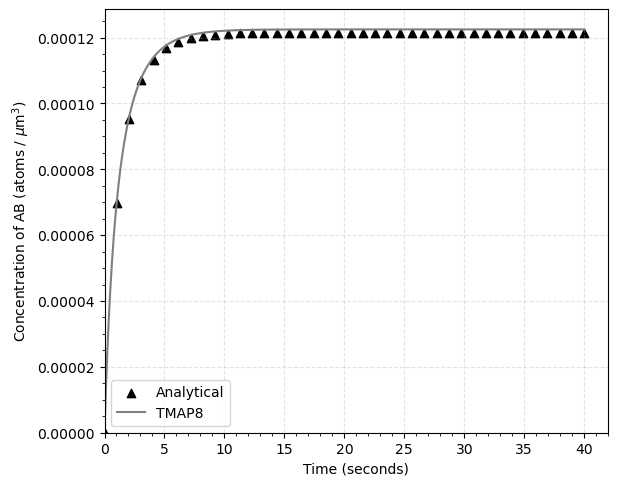
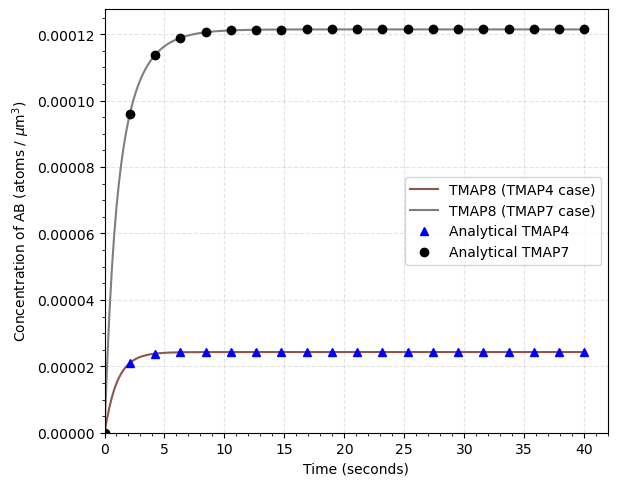
Removed trailing whitespaces, updated documentation and documentation images.

diff --git a/doc/content/verification_and_validation/ver-1g.md b/doc/content/verification_and_validation/ver-1g.md
@@ -2,7 +2,7 @@
 
 # A Simple Chemical Reaction
 
-This verification problem is taken from [!cite](longhurst1992verification). A simple time-dependent chemical reaction given by:
+This verification problem is taken from [!cite](longhurst1992verification,ambrosek2008verification). A simple time-dependent chemical reaction given by:
 
 \begin{equation}
 A + B \Rightarrow AB
@@ -32,11 +32,17 @@ where $C_{A_o}$ and $C_{B_o}$ are the initial concentrations of A and B, respect
 C_{AB} = C_{A_o} - \frac{1}{\frac{1}{C_{A_o}} + Kt}
 \end{equation}
 
-For this verification exercise, two cases were considered: (a) the initial concentrations of A and B are equal and (b) the initial concentrations of A and B are different.
+For this verification exercise, three cases were considered: (a) the initial concentrations of A and B are equal, (b) the initial concentrations of A and B are different and use the TMAP4 verification case values, and (c) the initial concentrations of A and B are different and use the TMAP7 verification case values. The equal concentration case is the same between TMAP4 and TMAP7, and is used for verification of TMAP8 here. While both TMAP4 and TMAP7 verification cases ( (b) and (c) respectively ) have the same analytical solution, the different initial conditions produce different $C_{AB}$ values over time, and we replicate both results here. 
 
-For case A, the initial concentrations of A and B were 2.43 x 10$^{-4}$ atoms / $\mu$m$^3$ (equivalent to 1 $\mu$Pa pressure assuming ideal gas law), and the reaction rate (K) is 4.14 x 10$^3$ $\mu$m$^3$ / atom$\cdot$s. For case B, the initial concentration of A was same as in case (a) while the initial concentration of B is 1.215 x 10$^{-4}$ atoms / $\mu$m$^3$.
+For case (a), the initial pressures of A and B were 1 $\mu$Pa, and the reaction rate (K) is 4.14 x 10$^3$ $\mu$m$^3$ / atom$\cdot$s. For case B the initial pressure of A was same as in case (a) while the initial pressure of B is 0.1 $\mu$Pa as per TMAP4. For case (c) the initial pressure of A was same as in case (a) while the initial pressure of B is 0.5 $\mu$Pa. In all cases, the initial pressures of A and B are first converted to their initial concentrations $C_{A_o}$ and $C_{B_o}$ using the ideal gas law before plugging into the TMAP8 simulations and analytical solutions. The initial concentration $C_{i_0}$ of component $i$ is
 
-A comparison of the concentration of AB as a function of time is plotted in [ver-1g_comparison_equal_conc] and [ver-1g_comparison_diff_conc] for the case A and case B, respectively. The TMAP8 calculations are found to be in good agreement with the analytical solution.
+\begin{equation}
+C_{i_0} = 10^{-18} \frac{P_{i_0} N_a}{R T} ,
+\end{equation}
+
+where $P_{i_0}$ is the initial pressure, $N_a$ is Avogardro's constant, $R$ is the gas constant, and $T$ = 298.15 K (25$\deg$ C) is the temperature. The factor $10^{-18}$ converts the concentration from atoms/m$^3$ to atoms/$\mu$m$^3$.
+
+A comparison of the concentration of AB as a function of time is plotted in [ver-1g_comparison_equal_conc] for case (a), and [ver-1g_comparison_diff_conc] for the cases (b) and (c), respectively. The TMAP8 calculations are found to be in good agreement with the analytical solution.
 
 !media figures/ver-1g_comparison_equal_conc.png
     style=width:50%;margin-bottom:2%
@@ -46,6 +52,6 @@ A comparison of the concentration of AB as a function of time is plotted in [ver
 !media figures/ver-1g_comparison_diff_conc.png
     style=width:50%;margin-bottom:2%
     id=ver-1g_comparison_diff_conc
-    caption=Comparison of concentration of AB as a function of time calculated through TMAP8 and analytically for the case when A and B have different concentrations.
+    caption=Comparison of concentration of AB as a function of time calculated through TMAP8 and analytically for the case when A and B have different concentrations. The plot shows comparisons for the initial conditions specified in both TMAP4 and TMAP7.
 
 !bibtex bibliography
